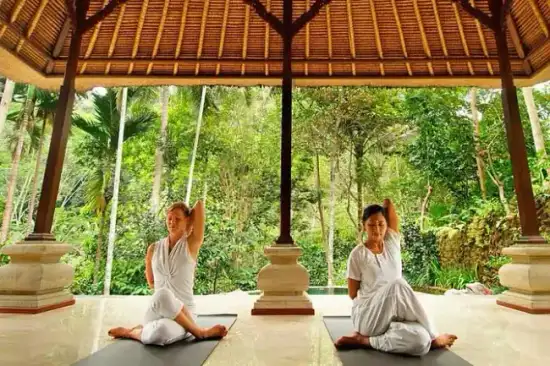
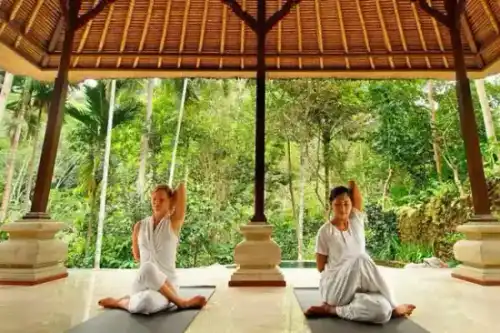
All final mobile optimizations: instant HTML pre-render inside #root, fixed badge dimensions, 24KB bali1, 3500ms Swiper hydration

diff --git a/index.html b/index.html
@@ -74,7 +74,34 @@
     <meta name="twitter:image" content="https://baliyoga.vercel.app/logo.webp" />
   </head>
   <body>
-    <div id="root"></div>
+    <div id="root">
+      <section style="background-color: #faf8f5; min-height: 100vh; width: 100%; display: flex; flex-direction: column;">
+        <div style="background-color: #faf8f5; padding: 96px 24px 48px; max-width: 1440px; margin: 0 auto; width: 100%; box-sizing: border-box;">
+          <div style="color: #854417; font-size: 11px; font-weight: 700; text-transform: uppercase; letter-spacing: 0.05em; margin-bottom: 16px;">
+            ★ A JOURNEY THAT TRANSFORMS YOU
+          </div>
+          <h1 style="font-size: 2.2rem; font-weight: 800; color: #1f3528; line-height: 1.15; margin: 0 0 16px 0; font-family: 'Montserrat', sans-serif;">
+            Become a <br />
+            Certified Yoga <br />
+            Teacher in <span style="color: #854417;">Bali</span>
+          </h1>
+          <p style="font-size: 18px; font-weight: 700; font-style: italic; color: #292524; margin: 0; font-family: 'Playfair Display', serif;">
+            Transform Your Life. Inspire the World.
+          </p>
+        </div>
+        <div style="width: 100%; overflow: hidden; position: relative;">
+          <img
+            src="/hero-mobile.webp"
+            alt="Yoga Retreat Bali Mobile 1"
+            width="900"
+            height="1093"
+            fetchpriority="high"
+            loading="eager"
+            style="width: 100%; height: 45vw; min-height: 500px; max-height: 900px; object-fit: cover; display: block;"
+          />
+        </div>
+      </section>
+    </div>
     <script type="module" src="/src/main.jsx"></script>
   </body>
 </html>

diff --git a/src/components/shared/Hero.jsx b/src/components/shared/Hero.jsx
@@ -26,7 +26,7 @@ function HeroSection() {
 
   useEffect(() => {
     // Enable Swiper transitions smoothly after initial static render
-    const timer = setTimeout(() => setMounted(true), 1200);
+    const timer = setTimeout(() => setMounted(true), 3500);
     return () => clearTimeout(timer);
   }, []);
 
